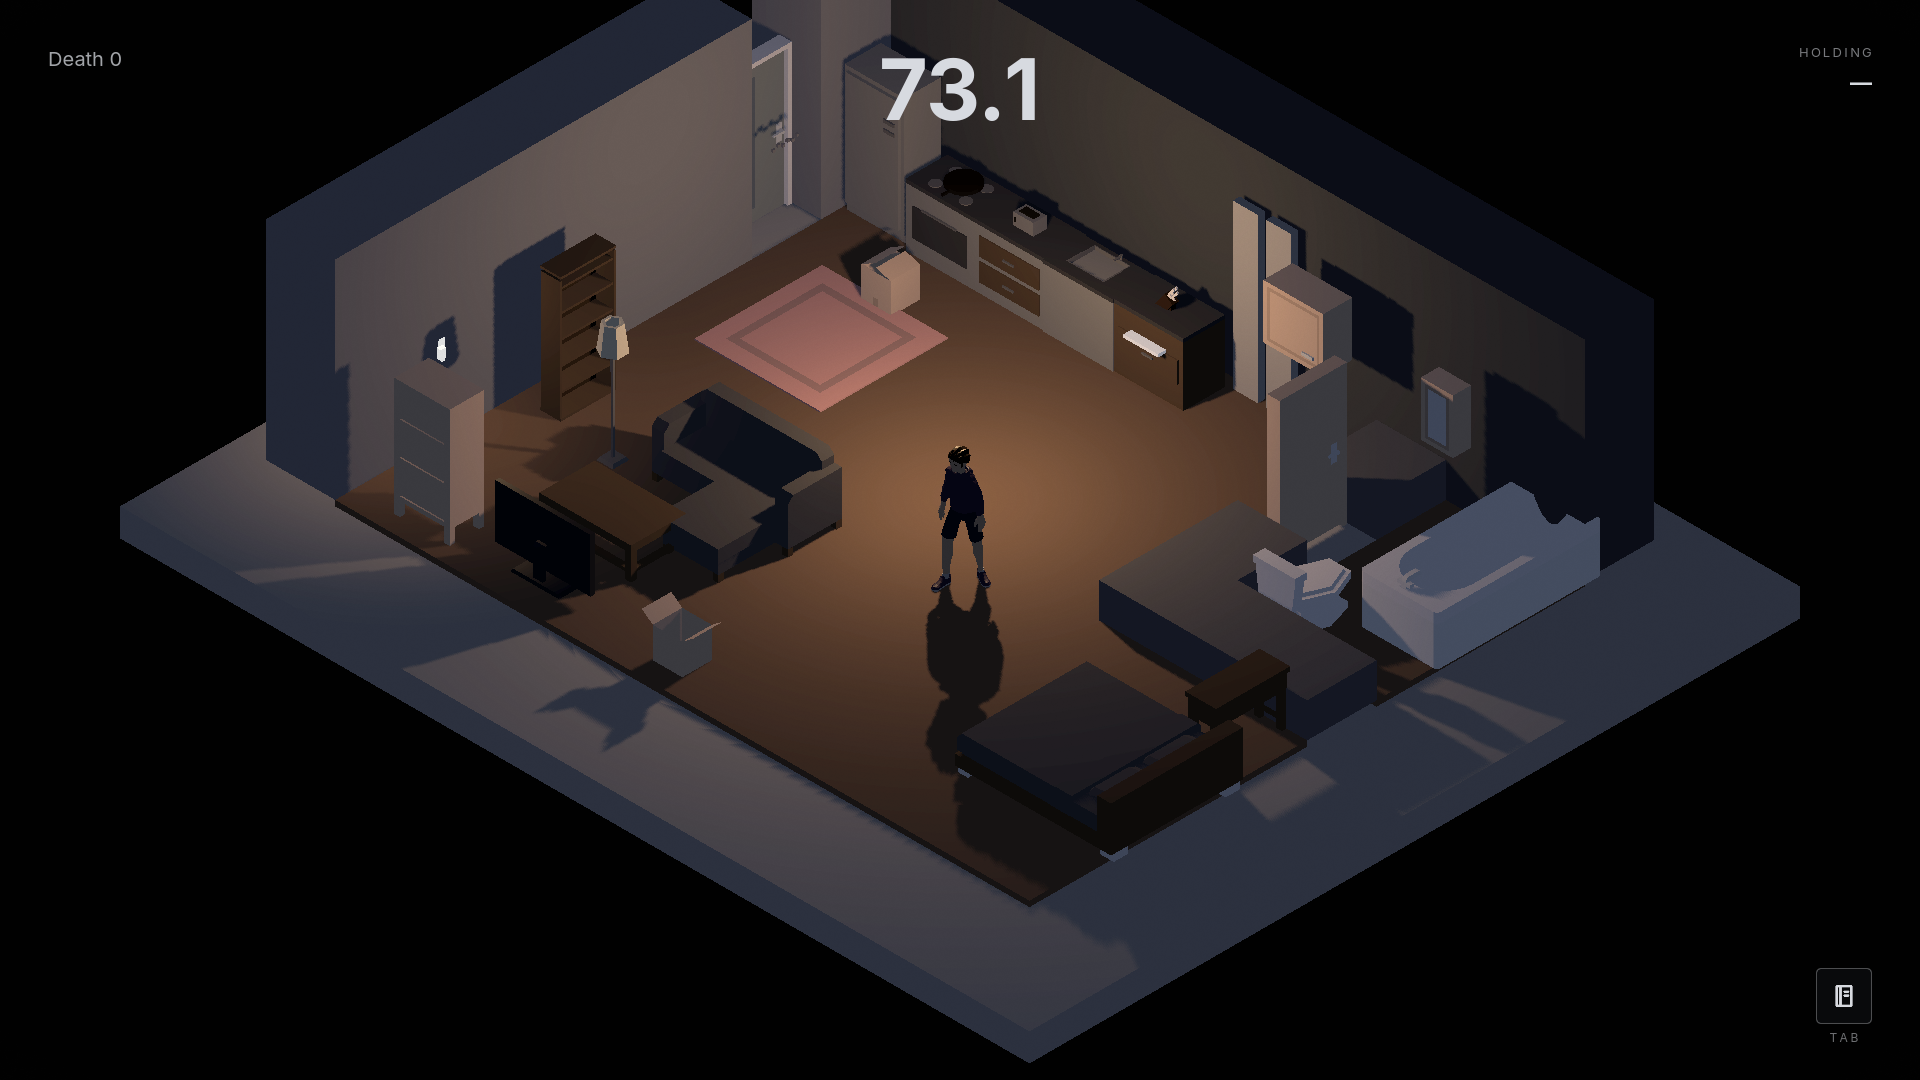
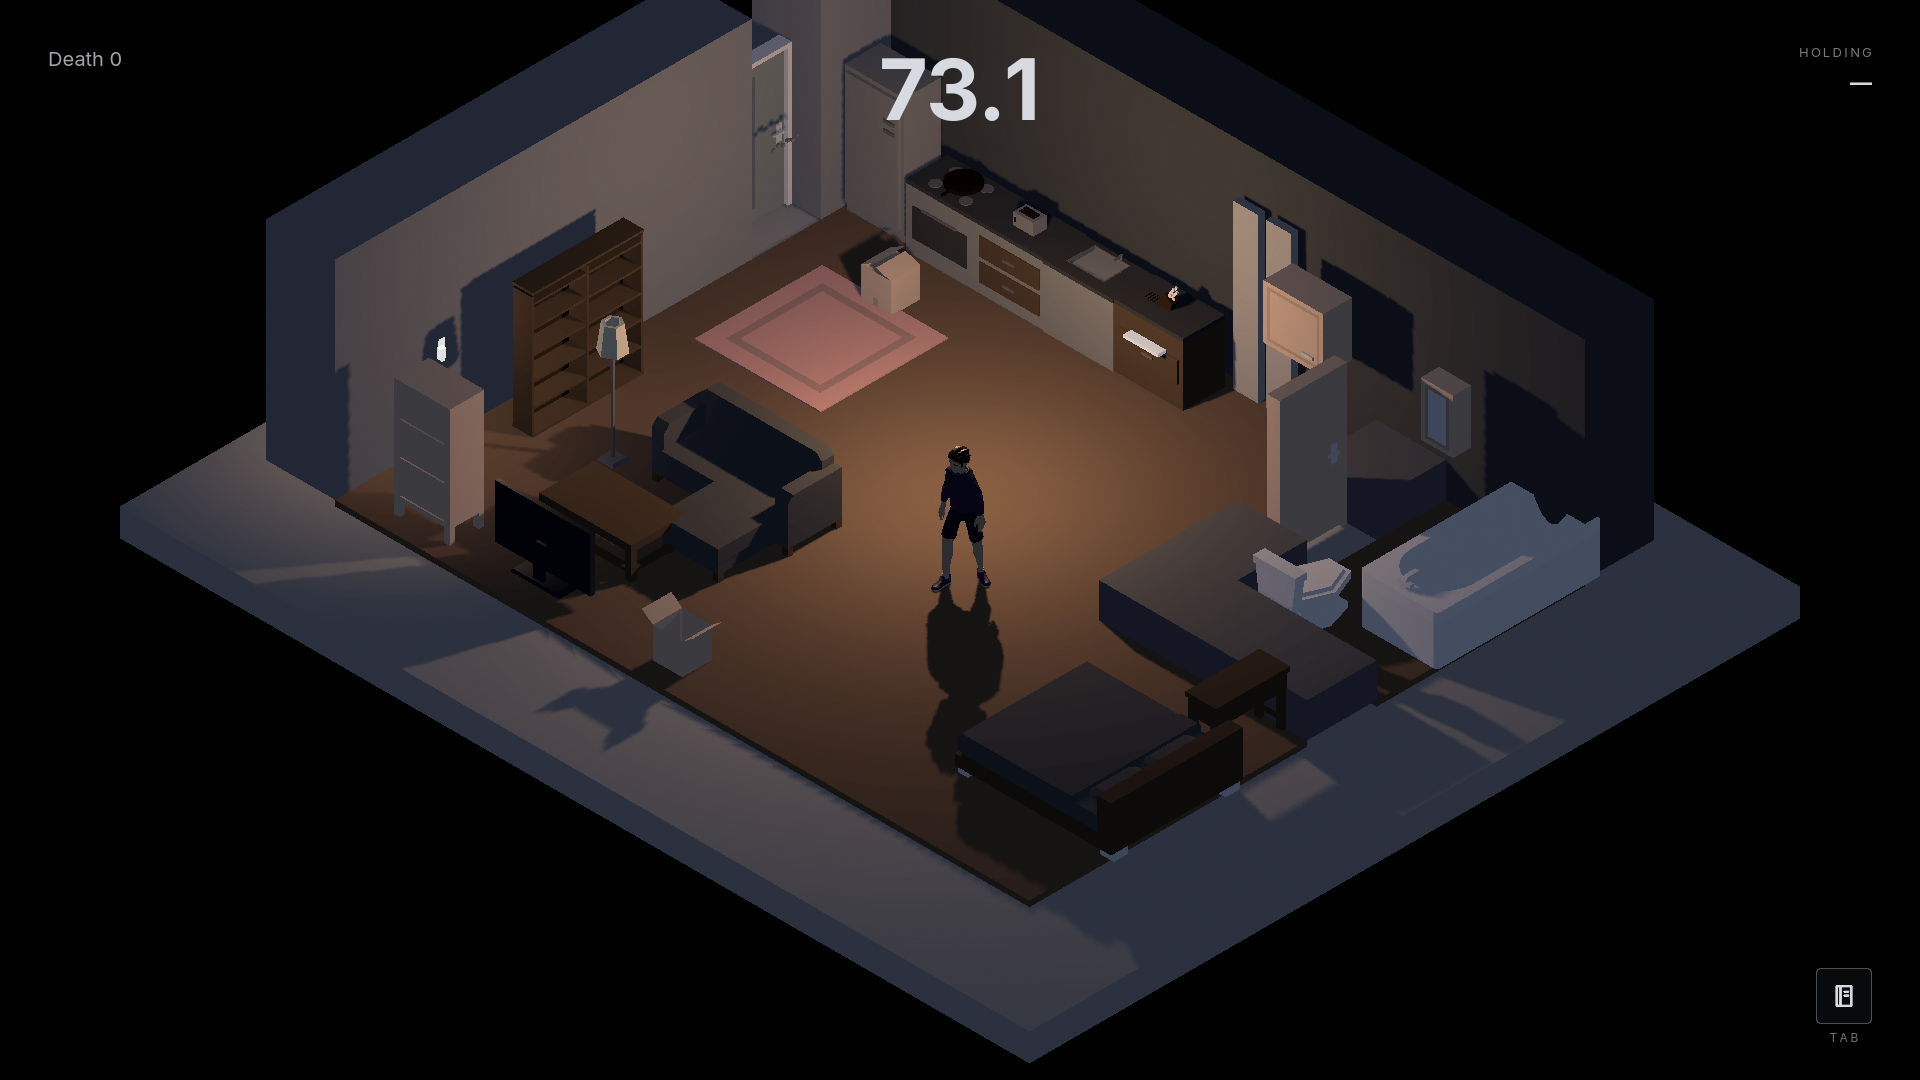
docs: record the First Light sign-off; refresh the shot set
Bob signed off on 4 Nov 2026: VISUAL-DIRECTIONS status and the two M4
acceptance lines updated; all seven shots and both aspects regenerated
(shelf width, slot mouths, toaster tone), deaths frame re-verified.

Changed region(s): [[0.2188, 0.1833, 0.3438, 0.3972]]

diff --git a/docs/VISUAL-DIRECTIONS.md b/docs/VISUAL-DIRECTIONS.md
@@ -2,7 +2,7 @@
 
 **Decision document, 3 Nov 2026.** Three committed directions for leveling up DÉJÀ MORT's look, each specified to the point of approval. Nothing in this document is implemented; no file outside it has changed. Bob picks one (or an order); a direction is approved only against a style frame before any code moves, and against the acceptance shots after.
 
-**Status, 3 Nov 2026: Direction A — First Light is chosen and built.** Bob approved the feel against the style frame generated from A's §8 prompt (v2, kept at `docs/reference/first-light-frame-v2.webp`). The build is on branch `first-light` — the data pass, the studio `counter*`/`toaster`/`bookshelf`/`bubble_token` models, and the dust puff. One scope ruling: the build also fixed a latent M4 defect (**hazard particles were invisible — CPUParticles3D renders nothing without a mesh**), so water, fire, shock and gas particles finally render too. The acceptance shot set is regenerated and **awaiting Bob's sign-off**.
+**Status, 4 Nov 2026: Direction A — First Light is signed off.** Bob approved the feel against the style frame generated from A's §8 prompt (v2, kept at `docs/reference/first-light-frame-v2.webp`) and signed off the acceptance shot set on 4 Nov 2026. The build landed via PR #58 (the data pass, the studio `counter*`/`toaster`/`bookshelf`/`bubble_token` models, the dust puff, and a latent M4 defect fix — **hazard particles were invisible because CPUParticles3D renders nothing without a mesh**). A same-day follow-up widened the bookshelf to 1.6 m so it fills its wall run like the room's other real-sized pieces, and cleared the review's minor items; the refreshed shots in `docs/screenshots/` are the current set.
 
 Derived from the repo, the studio's own peers (`docs/06-art-and-audio-requirements.md:7` — Hitman GO, Monument Valley, Lara Croft GO; "keep the bones, change the mood") and `docs/reference/style-target.png`. Bob has no references of his own, so every proposal below is grounded in a value or a rule that already exists.
 

diff --git a/docs/M4-CLOSEOUT.md b/docs/M4-CLOSEOUT.md
@@ -36,7 +36,7 @@ Two states deliberately have none, declared in `state_visual_none` with the reas
 
 > Room 1 looks like the style target under the lighting rig.
 
-Bob's first verdict was "it does not meet the style target". Six structural fixes followed (the lighting rig, real furniture scale, the wall treatment, the characters, smoothed movement, the tipping axis). It has not been re-judged since. **Open — needs Bob's eyes.**
+Bob's first verdict was "it does not meet the style target". Six structural fixes followed (the lighting rig, real furniture scale, the wall treatment, the characters, smoothed movement, the tipping axis). Re-judged on the First Light set and **signed off by Bob, 4 Nov 2026** (`docs/VISUAL-DIRECTIONS.md`).
 
 > Every object state has a visual.
 
@@ -55,7 +55,7 @@ The set is regenerated at 1920×1080 and current as of this commit:
 | `docs/screenshots/m4_tipped.png` | the bookshelf down, fallen into the room |
 | `docs/screenshots/m4_death.png` | mid-swing, the body down, no banner across it |
 
-**Open — awaiting sign-off.**
+**Signed off by Bob, 4 Nov 2026.** The set was regenerated by the First Light pass (PR #58) and refreshed once after its follow-up (bookshelf width, review minors).
 
 ---
 
